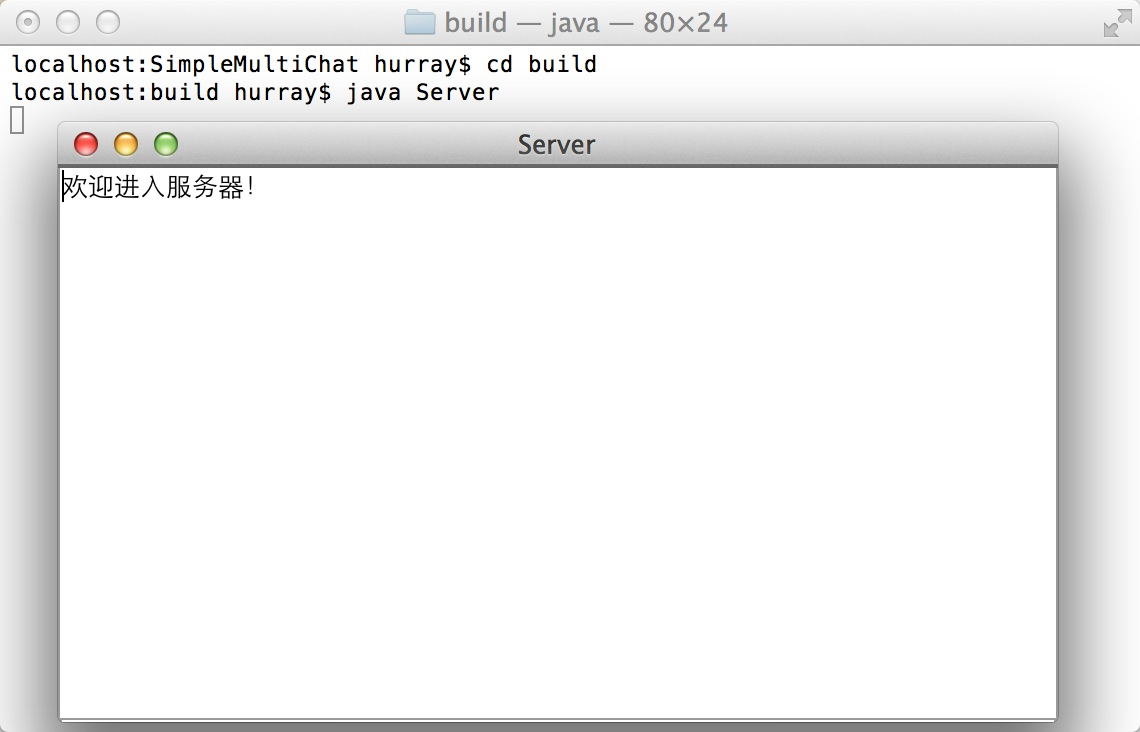
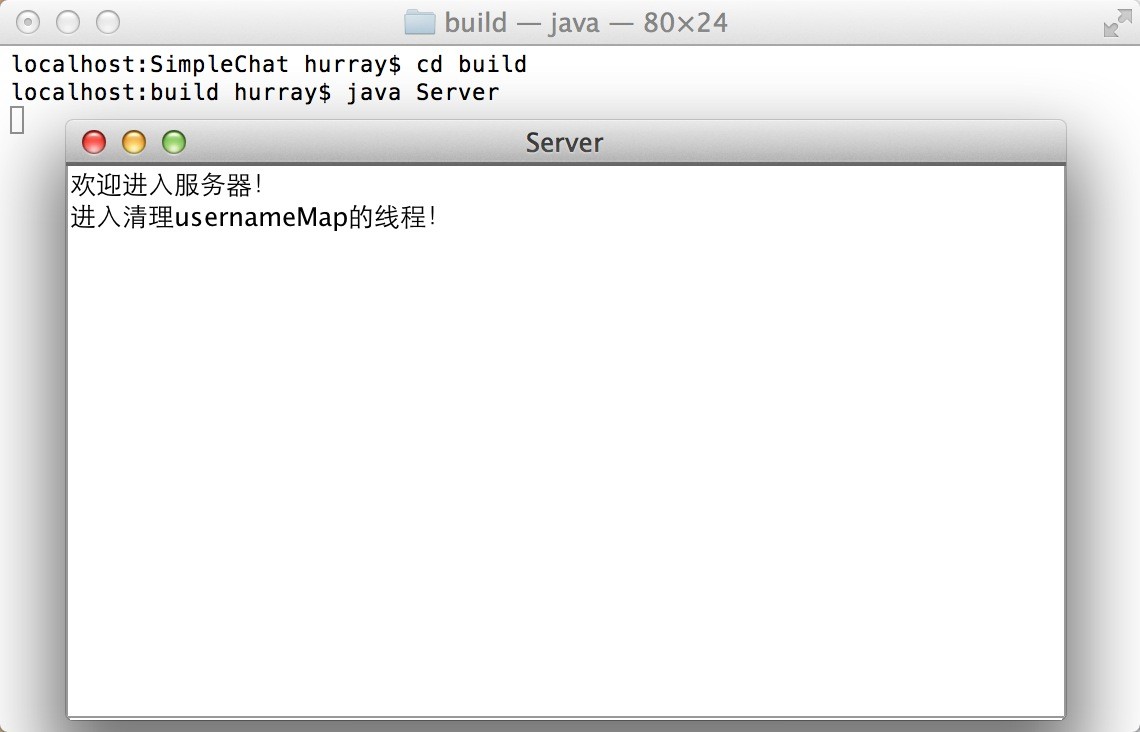
【简易多功能聊天室】修改文档

Changed region(s): [[0.0307, 0.1503, 0.9518, 0.9918], [0.1842, 0.0601, 0.5219, 0.1202]]

diff --git a/Distributional_Computing/lab1/SimpleChat/README.md b/Distributional_Computing/lab1/SimpleChat/README.md
@@ -1,7 +1,7 @@
-#SimpleMultiChat-简单的群聊聊天室
+#SimpleChat-简单的多功能聊天室
 ##作者信息
 ```
-Project: SimpleMultiChat
+Project: SimpleChat
 Author: Hurray Zhu
 Time: 2014.10.28
 E-mail: i@ihurray.com
@@ -10,7 +10,6 @@ GitHub: https://github.com/Hurray0/ketang/tree/master/Distributional_Computing/l
 ```
 ##文件目录
 ```
-.
 .
 |____build
 | |____Client$1.class
@@ -23,6 +22,7 @@ GitHub: https://github.com/Hurray0/ketang/tree/master/Distributional_Computing/l
 | |____Server.class
 | |____Server_MainThread.class
 | |____ServerMainThread.class
+| |____ThreadCleanUserMap.class
 |____build.xml
 |____makefile
 |____README.md
@@ -31,6 +31,7 @@ GitHub: https://github.com/Hurray0/ketang/tree/master/Distributional_Computing/l
 | |____R.java
 | |____Server.java
 | |____ServerMainThread.java
+| |____ThreadCleanUserMap.java
 ```
 
 ##编码环境
@@ -42,27 +43,40 @@ GitHub: https://github.com/Hurray0/ketang/tree/master/Distributional_Computing/l
 ###编译环境
 * *unix(含MacOS) 使用makefile/Ant编译
 * Windows使用Ant编译
-* 或者按照R.java Client.java Server_MainThread.java Server.java的顺序依次编译src文件夹的文件，然后java命令运行
+* 或者按照R.java Client.java Server_MainThread.java ThreadCleanUserMap.java Server.java的顺序依次编译src文件夹的文件，然后java命令运行
 
 ###例图
-####makefile编译
+####makefile自动编译
 ![](jietu/makefile.png)
 
-####ant编译
+####ant自动编译
 ![](jietu/ant.png)
 
-####运行服务器(在build目录中用make Server命令也可)
+####运行服务器(在build目录中用make server命令也可)
 ![](jietu/runserver.png)
 
-####运行客户端(在build目录中用make Client命令也可)
+####运行客户端(在build目录中用make client命令也可)
 
 ![](jietu/runclient.png)
 
 ##运行效果
-####服务器接收用户登录
-![](jietu/jieshoudenglu.png)
 
 ####群聊效果
 ![](jietu/qunliao.png)
 ####群聊效果2
 ![](jietu/qunliao2.png)
+
+####私聊效果
+![](jietu/siliao.png)
+
+####私聊效果2
+![](jietu/siliao2.png)
+
+####私聊和群聊同时
+![](jietu/qunliaosiliao.png)
+
+####exit退出当前选择
+![](jietu/exit.png)
+
+####重新登录
+![](jietu/chongxindenglu.png)
